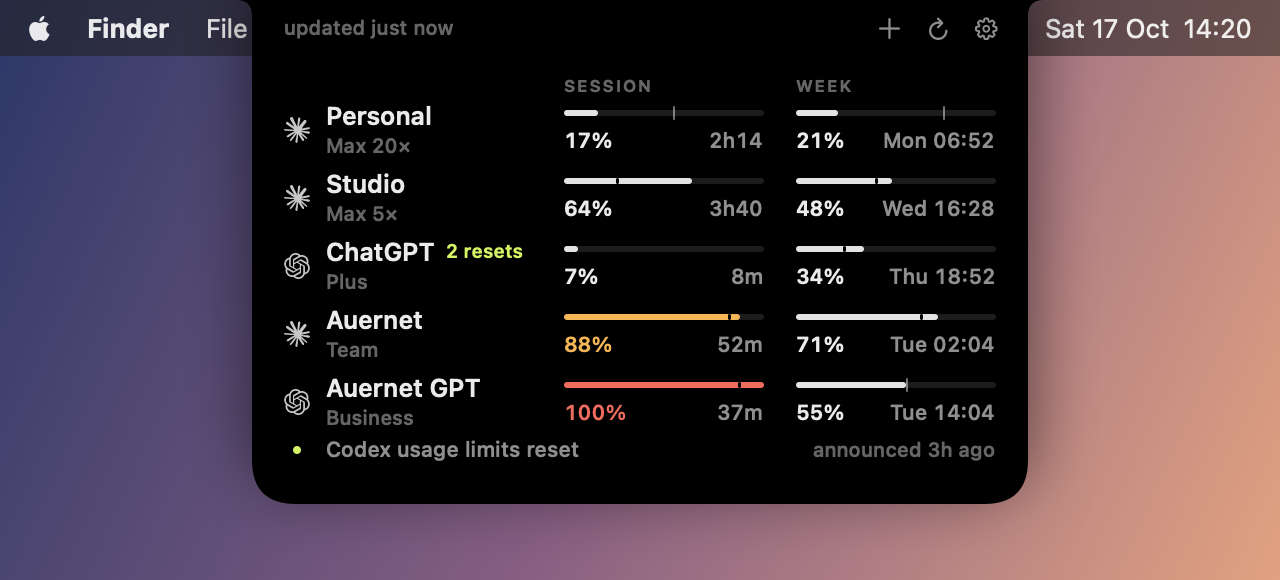
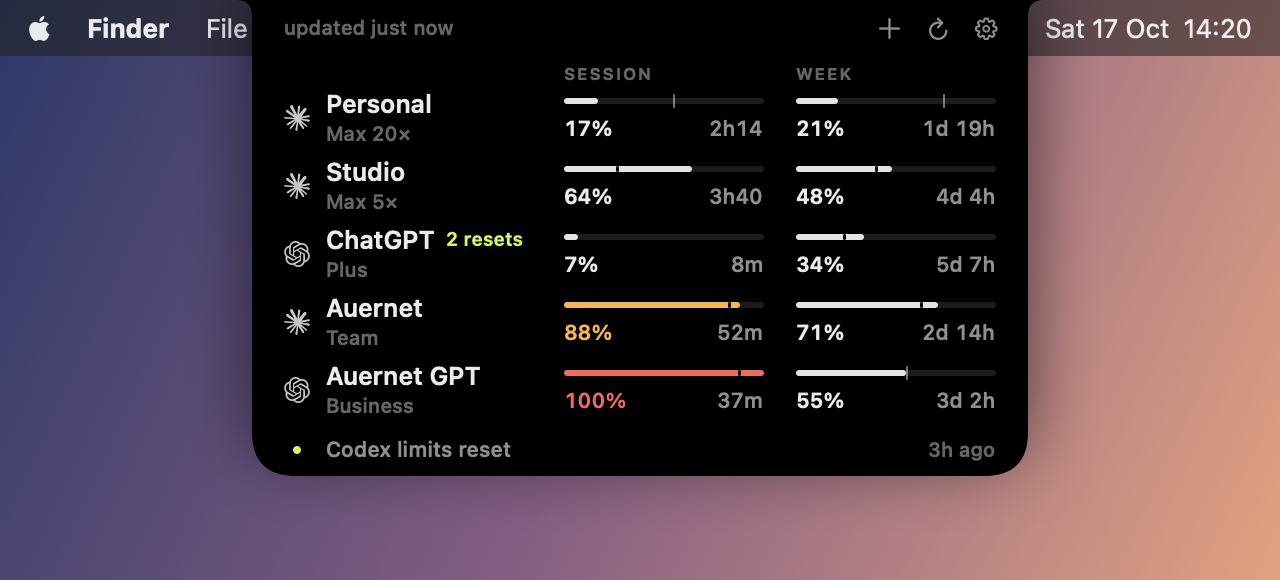
week countdown, short reset line, tighter padding

diff --git a/src/NotchView.swift b/src/NotchView.swift
@@ -42,7 +42,7 @@ final class NotchModel: ObservableObject {
     var headerHeight: CGFloat { hasNotch || !open ? notchHeight : 32 }
 
     func openSize(rows: Int, footer: Bool = false) -> CGSize {
-        var body = rows == 0 ? 64 : 20 + CGFloat(rows) * Self.rowHeight + 12
+        var body = rows == 0 ? 64 : 14 + CGFloat(rows) * Self.rowHeight + 4
         if footer { body += 22 }
         let header = hasNotch ? notchHeight : 32
         return CGSize(width: max(Self.openWidth, notchWidth + 2 * Self.wing + 40), height: header + body)
@@ -174,7 +174,7 @@ struct NotchView: View {
                     ColumnLabel("Week").frame(width: Row.meterWidth, alignment: .leading).padding(.leading, Row.gap)
                 }
                 .padding(.horizontal, 16)
-                .frame(height: 20, alignment: .bottom)
+                .frame(height: 14, alignment: .bottom)
                 ForEach(rows) { a in
                     Row(account: a, usage: store.usage[a.id], now: store.now)
                         .frame(height: NotchModel.rowHeight)
@@ -188,7 +188,7 @@ struct NotchView: View {
                 }
             }
             if let an = store.announcement {
-                Announced(item: an, now: store.now).frame(height: 22).padding(.horizontal, 16).offset(y: -4)
+                Announced(item: an, now: store.now).frame(height: 18).padding(.horizontal, 16).padding(.top, 4)
             }
         }
     }
@@ -212,15 +212,15 @@ struct Announced: View {
         } label: {
             HStack(spacing: 0) {
                 Circle().fill(Theme.accent).frame(width: 4, height: 4).frame(width: 13)
-                Text(item.summary).foregroundStyle(Theme.dim).lineLimit(1).padding(.leading, 8)
+                Text(item.short).foregroundStyle(Theme.dim).lineLimit(1).padding(.leading, 8)
                 Spacer(minLength: 6)
-                Text("announced \(Fmt.duration(now.timeIntervalSince(item.at))) ago").font(Theme.num(10)).foregroundStyle(Theme.faint)
+                Text("\(Fmt.duration(now.timeIntervalSince(item.at))) ago").font(Theme.num(10)).foregroundStyle(Theme.faint)
             }
             .font(Theme.ui(10.5))
             .contentShape(Rectangle())
         }
         .buttonStyle(.plain)
-        .help("Announced in public. Opens the post.")
+        .help("\(item.summary). Opens the post.")
     }
 }
 
@@ -412,7 +412,7 @@ struct Meter: View {
     private var help: String {
         guard let w = window else { return "No data" }
         var s = "\(w.label): \(Int(w.percent))% used"
-        if let r = w.resetsAt { s += ", resets in \(Fmt.duration(r.timeIntervalSince(now)))" }
+        if let r = w.resetsAt { s += ", resets \(Fmt.when(r))" }
         if let out = w.runsOut(at: now) { s += ". At this pace it runs out in \(Fmt.duration(out.timeIntervalSince(now)))" }
         else if let p = w.projected(at: now) { s += ". At this pace: \(Int(min(p, 100)))% by reset" }
         return s

diff --git a/src/Model.swift b/src/Model.swift
@@ -203,14 +203,17 @@ enum Fmt {
         return h % 24 == 0 ? "\(d)d" : "\(d)d \(h % 24)h"
     }
 
-    /// Short reset label: within a day a countdown, else the weekday.
+    /// Short reset label: always a countdown ("37m", "2h14", "3d 4h").
     static func reset(_ date: Date?, now: Date) -> String {
         guard let date else { return "" }
-        let t = date.timeIntervalSince(now)
-        if t < 24 * 3600 { return duration(t) }
+        return duration(date.timeIntervalSince(now))
+    }
+
+    /// "Mon 06:52", for tooltips.
+    static func when(_ date: Date) -> String {
         let f = DateFormatter()
         f.locale = Locale(identifier: "en_US_POSIX")
-        f.dateFormat = t < 6 * 24 * 3600 ? "EEE HH:mm" : "MMM d"
+        f.dateFormat = "EEE d MMM HH:mm"
         return f.string(from: date)
     }
 
@@ -317,15 +320,20 @@ struct Announcement: Codable, Equatable, Identifiable {
     var id: String
     var provider: Provider
     var summary: String
+    var product: String?
     var url: String?
     var at: Date
+
+    /// One short line: "Codex limits reset".
+    var short: String { "\(product ?? (provider == .claude ? "Claude" : "Codex")) limits reset" }
 
     static func parse(_ o: [String: Any]) -> [Announcement] {
         ((o["resets"] as? [[String: Any]]) ?? []).compactMap { r in
             guard let id = r["id"] as? String, let s = r["summary"] as? String,
                   let at = ((r["posted_at"] as? String) ?? (r["detected_at"] as? String)).flatMap(JSON.parseDate) else { return nil }
             let p: Provider = (r["provider"] as? String) == "anthropic" ? .claude : .codex
-            return Announcement(id: id, provider: p, summary: s, url: r["source_url"] as? String, at: at)
+            let product = (r["product"] as? String).flatMap { $0.isEmpty ? nil : $0 }
+            return Announcement(id: id, provider: p, summary: s, product: product, url: r["source_url"] as? String, at: at)
         }
     }
 }

diff --git a/src/Snapshot.swift b/src/Snapshot.swift
@@ -78,7 +78,7 @@ enum Snapshot {
             s.usage[id] = Usage(accountId: id, fetchedAt: now.addingTimeInterval(-50),
                                 windows: [w(.session, r.3, r.4), w(.weekly, r.5, r.6)], plan: r.2, resetCredits: r.7)
         }
-        s.announcement = Announcement(id: "x", provider: .codex, summary: "Codex usage limits reset", url: nil,
+        s.announcement = Announcement(id: "x", provider: .codex, summary: "Codex usage limits reset after an eventful week of outages", product: "Codex", url: nil,
                                       at: now.addingTimeInterval(-3 * 3600))
         return s
     }

diff --git a/src/Store.swift b/src/Store.swift
@@ -136,7 +136,7 @@ final class Store: ObservableObject {
             if firstRun || now.timeIntervalSince(a.at) > 6 * 3600 { fired.insert("ann:\(a.id)"); continue }
             fire(Alert(kind: .announced, accountId: "", account: a.provider == .claude ? "Anthropic" : "OpenAI",
                        provider: a.provider, window: nil, percent: nil, resetsAt: nil,
-                       title: a.summary, key: "ann:\(a.id)", at: now))
+                       title: a.short, key: "ann:\(a.id)", at: now))
         }
         JSON.save(Array(fired), Paths.fired)
     }
